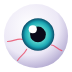
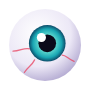
Fit the Spooky Merge art to its collision circles
Pieces looked apart while they touched, because the art filled only
81 to 95 percent of its circle. Center each image on the center of mass
of its art and scale it to fill the circle, letting thin tips reach past
it. The images are larger now, so the game starts a little later.

diff --git a/prg/spooky_merge_web/README.md b/prg/spooky_merge_web/README.md
@@ -69,7 +69,7 @@ Build the Seed7 program, then publish the contents of `prg/spooky_merge_web/`, i
 
 Each tier and the background has an SVG source and a rendered PNG in `art/`. After changing an SVG, run `node art/render.cjs` from this folder, with Playwright installed as described above.
 
-To use other artwork, replace a PNG and keep its file name. Tier images are square with a transparent background, and the game scales them to the size of the tier. For the sharpest result use the sizes in `render.cjs`. The top 110 CSS pixels of `background.png` (220 image pixels) must stay the flat color `#0b0820`, because the score text paints its own background. If a PNG cannot be loaded, the game draws a simple shape instead.
+To use other artwork, replace a PNG and keep its file name. Tier images are square with a transparent background, and the game scales them to the size of the tier. The physics treats every piece as a circle, which fills the inner 80% of the image width. So place the art on the center of the image, let it fill that inner circle, and keep only thin tips outside of it. `render.cjs` does this for the SVG art. For the sharpest result use the sizes that it prints. The top 110 CSS pixels of `background.png` (220 image pixels) must stay the flat color `#0b0820`, because the score text paints its own background. If a PNG cannot be loaded, the game draws a simple shape instead.
 
 ## Continuous integration
 
